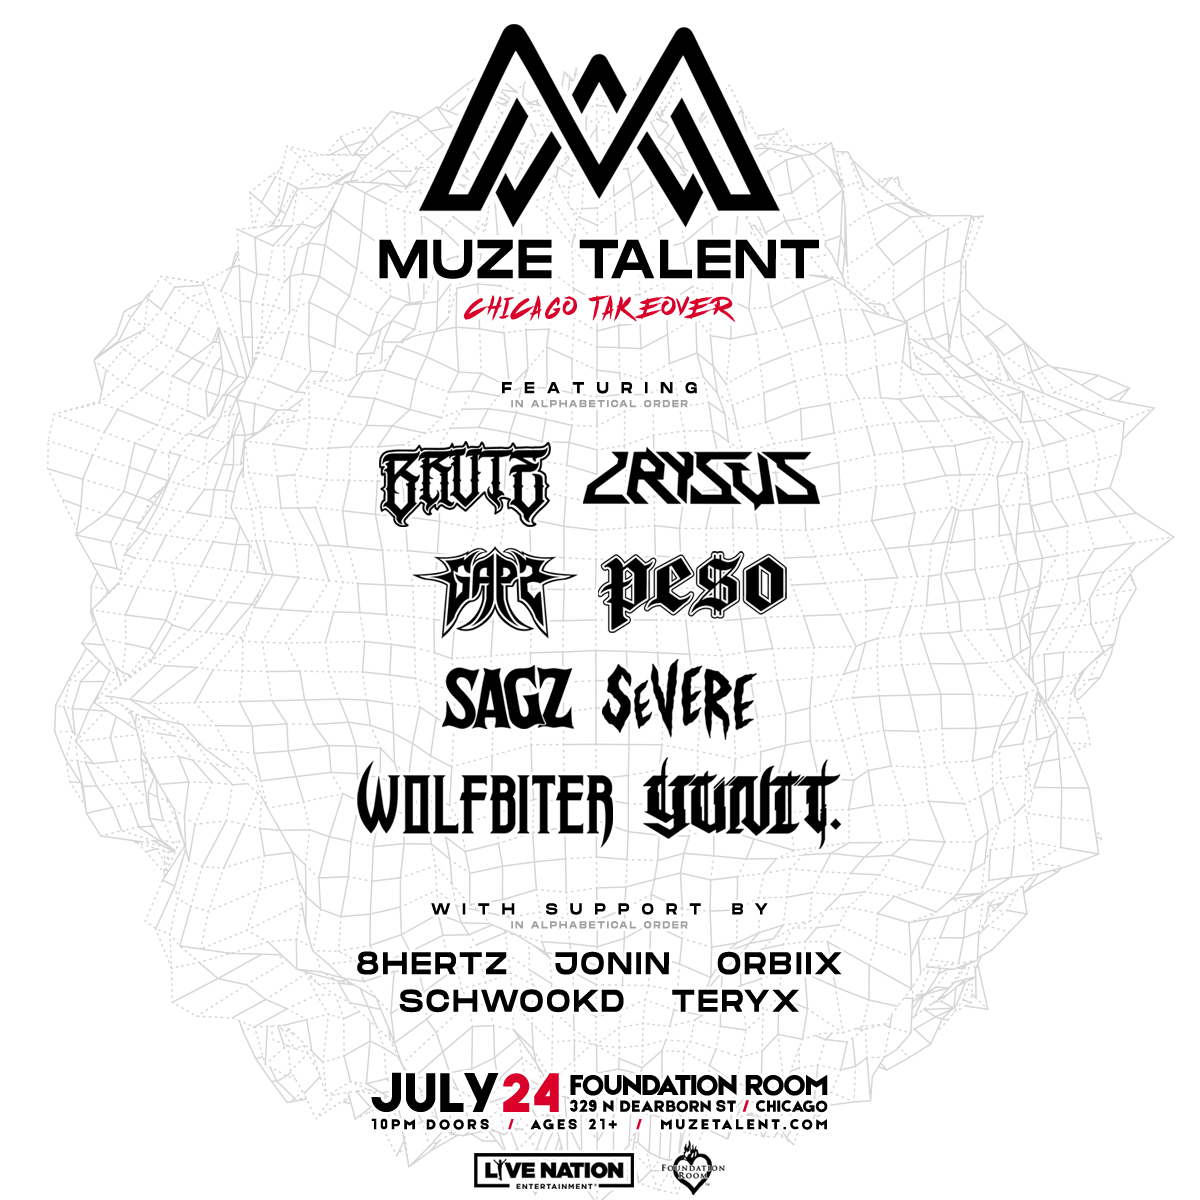
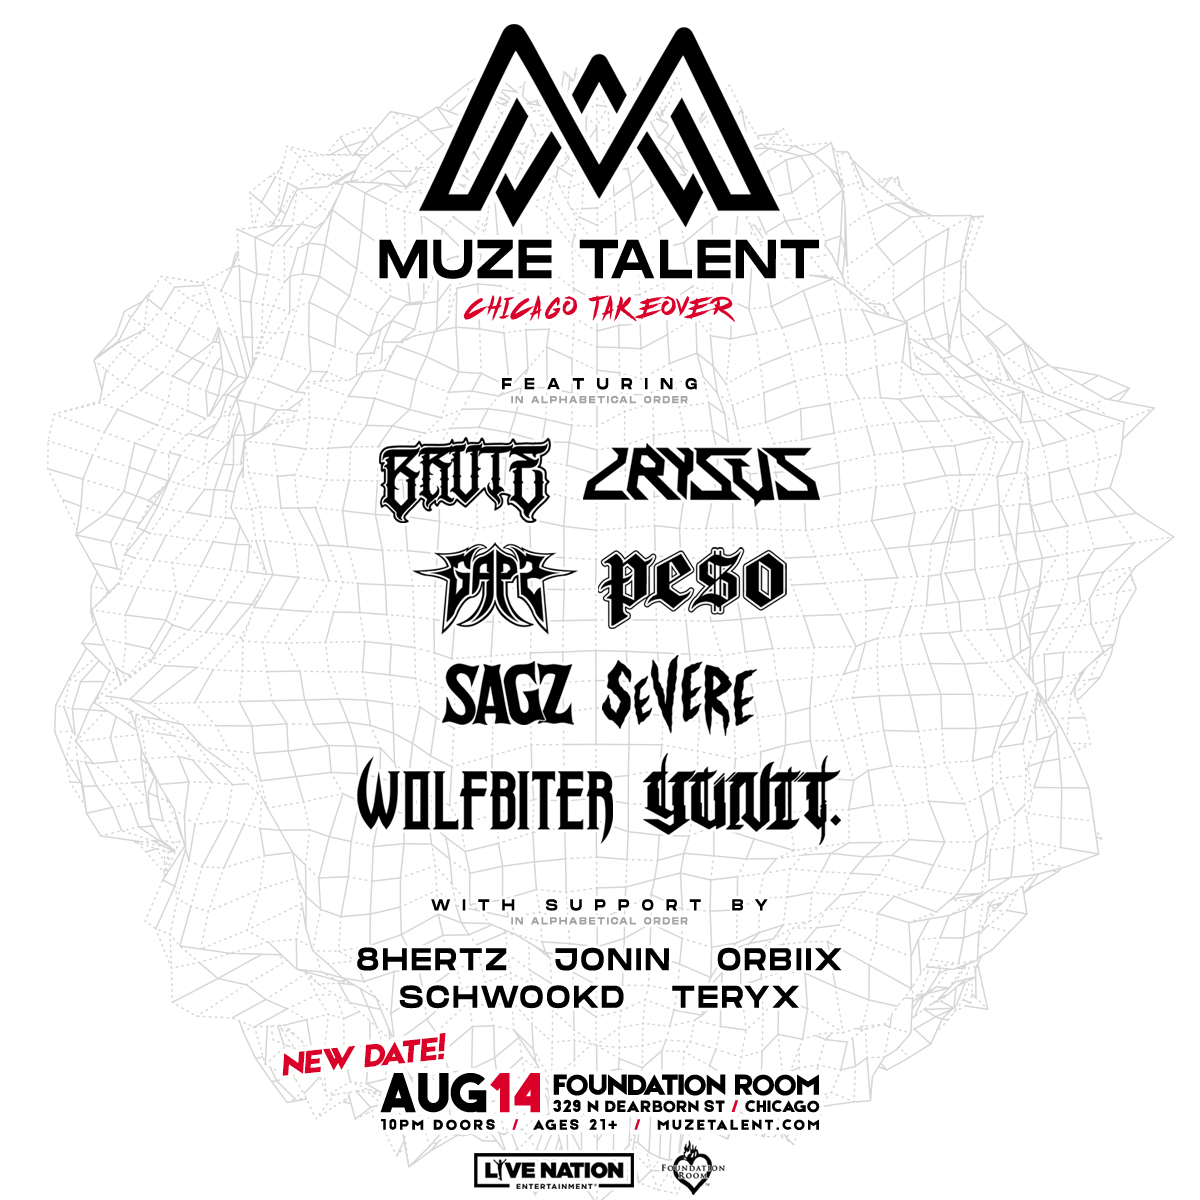
Update

diff --git a/index.html b/index.html
@@ -83,7 +83,7 @@
 				<!--<h3>Muze Takeover</h3> -->
 				<div class="cards">
 					<div class="card"><img class="card" src="images/takeover.jpg" alt="" /></div>
-					<div class="card"><p><h3>Muze Talent Chicago Takeover</h3>BRUTE - CRYSUS - GAPZ - PESO - SAGZ - SEVERE - WOLFBITER - YUNIT<br>with support from 8hertz, Jonin, Orbiix, Schwookd, Teryx<br><br>Foundation Room | House of Blues Chicago<br>329 N Dearborn St<br>Chicago, IL<br><br>Saturday July 24th, 2021<br>This event is 21+
+					<div class="card"><p><h3>Muze Talent Chicago Takeover</h3>BRUTE - CRYSUS - GAPZ - PESO - SAGZ - SEVERE - WOLFBITER - YUNIT<br>with support from 8hertz - Jonin - Orbiix - Schwookd - Teryx<br><br>Foundation Room | House of Blues Chicago<br>329 N Dearborn St<br>Chicago, IL<br><br>Saturday Aug 14th, 2021<br>This event is 21+
 						<br><br><a target="_blank" href="https://www.eventbrite.com/e/muze-takeover-tickets-163927657035" class="button">Buy Tickets</a>
 					</p></div>				</div>
 
